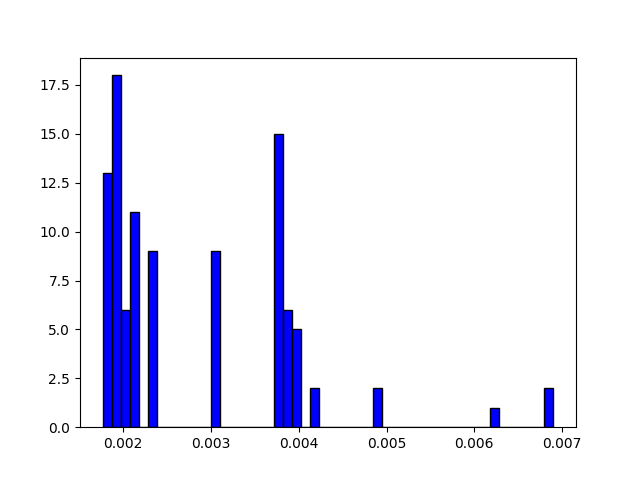
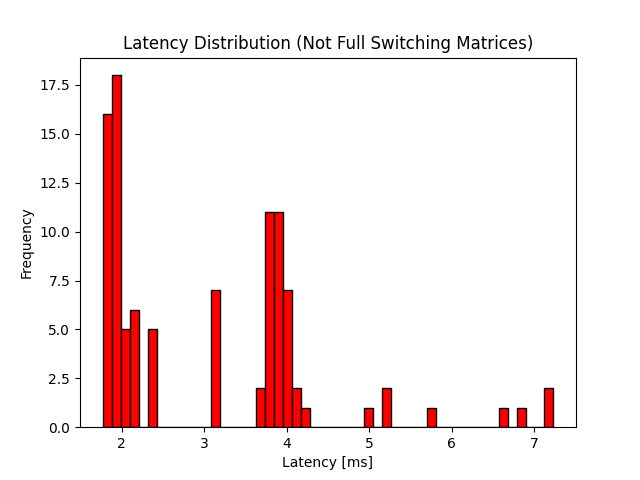
lab7: plots updated

diff --git a/Tasks/main.py b/Tasks/main.py
@@ -69,10 +69,16 @@ def main():
 
     # Result plotting
     plt.hist(snr_array, color='blue', edgecolor='black', bins=50)
+    plt.xlabel('SNR [dB]')
+    plt.ylabel('Frequency')
+    plt.title('SNR Distribution (Full Switching Matrices)')
     plt.savefig(root / 'Results/Lab7/snr_distribution_full_sw_mx.png')
     plt.show()
 
-    plt.hist(latency_array, color='blue', edgecolor='black', bins=50)
+    plt.hist(latency_array*1e3, color='red', edgecolor='black', bins=50)
+    plt.xlabel('Latency [ms]')
+    plt.ylabel('Frequency')
+    plt.title('Latency Distribution (Full Switching Matrices)')
     plt.savefig(root / 'Results/Lab7/latency_distribution_full_sw_mx.png')
     plt.show()
 
@@ -117,10 +123,16 @@ def main():
 
     # Result plotting
     plt.hist(snr_array2, color='blue', edgecolor='black', bins=50)
+    plt.xlabel('SNR [dB]')
+    plt.ylabel('Frequency')
+    plt.title('SNR Distribution (Not Full Switching Matrices)')
     plt.savefig(root / 'Results/Lab7/snr_distribution_not_full_sw_mx.png')
     plt.show()
 
-    plt.hist(latency_array2, color='blue', edgecolor='black', bins=50)
+    plt.hist(latency_array2*1e3, color='red', edgecolor='black', bins=50)
+    plt.xlabel('Latency [ms]')
+    plt.ylabel('Frequency')
+    plt.title('Latency Distribution (Not Full Switching Matrices)')
     plt.savefig(root / 'Results/Lab7/latency_distribution_not_full_sw_mx.png')
     plt.show()
 
